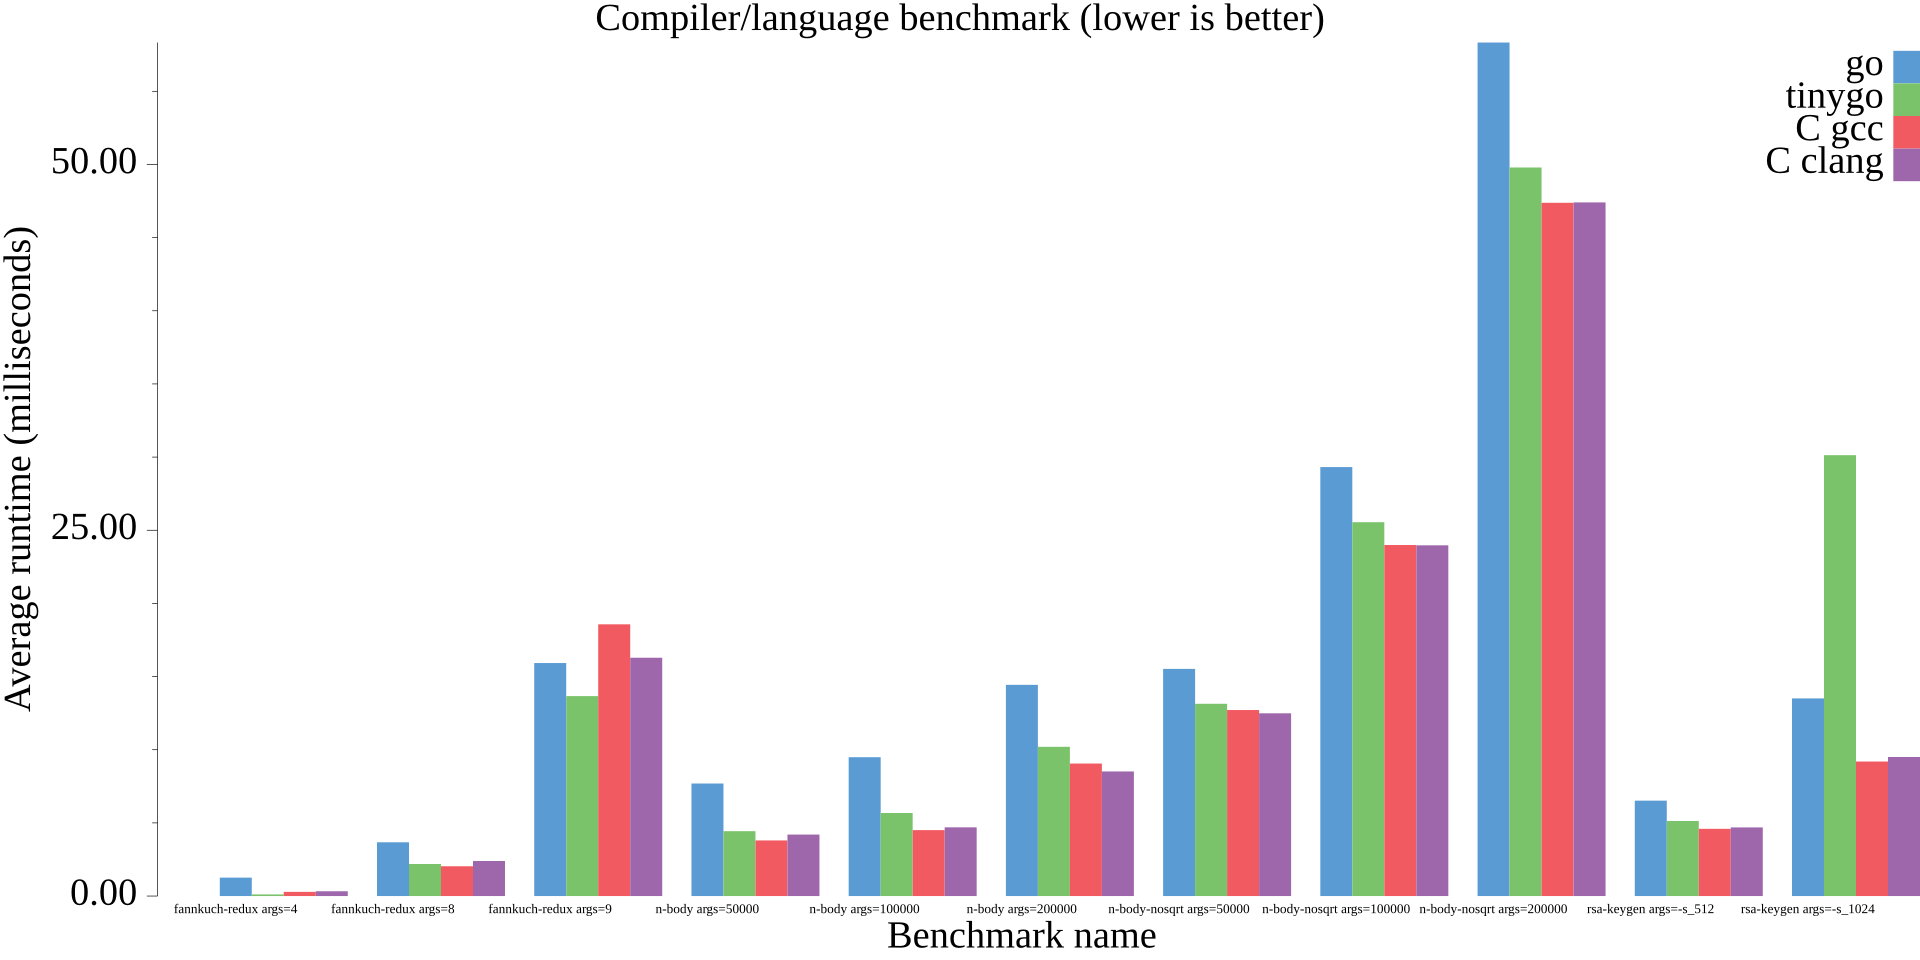
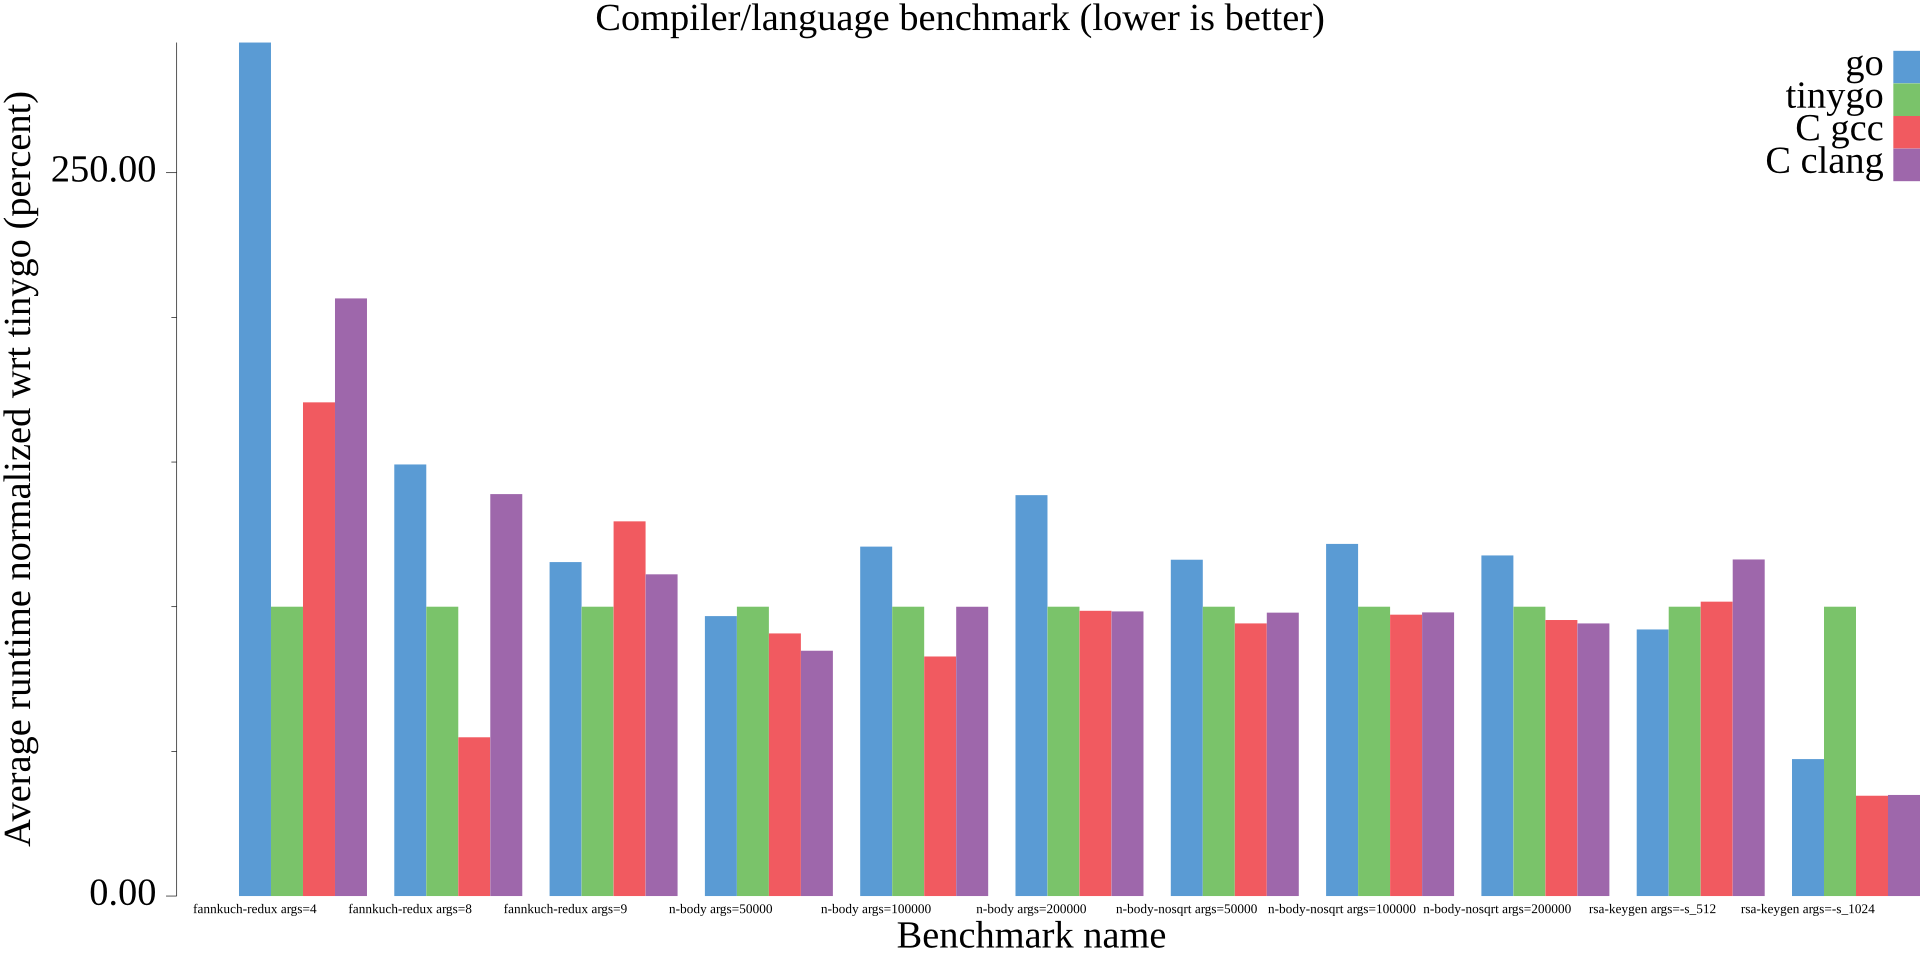
normalize benchmarks against tinygo

Changed region(s): [[0.0312, 0.0312, 1.0, 1.0], [0.0, 0.0938, 0.0938, 0.875]]

diff --git a/plot_/main.go b/plot_/main.go
@@ -8,6 +8,7 @@ import (
 	"io"
 	"log"
 	"os"
+	"slices"
 	"strconv"
 	"strings"
 	"time"
@@ -19,13 +20,33 @@ import (
 )
 
 func main() {
-	var output string
+	var output, baseLang string
 	flag.StringVar(&output, "o", "benchmark.png", "Output file")
+	flag.StringVar(&baseLang, "base", "tinygo", "Language benchmark to normalize other benchmark timings with")
 	flag.Parse()
-	langs, err := parsebench(os.Stdin)
+	langs, err := parsebench(os.Stdin, baseLang)
 	if err != nil {
 		log.Fatal(err)
 	}
+	err = drawBenchmark(langs, output, baseLang)
+	if err != nil {
+		log.Fatal(err)
+	}
+	for i := range langs {
+		for j := range langs[i].Results {
+			if langs[i].Results[j].ID() == "fannkuch-redux args=4" {
+				langs[i].Results = slices.Delete(langs[i].Results, j, j+1)
+				break
+			}
+		}
+	}
+	err = drawBenchmark(langs, "omit_fk4_"+output, baseLang)
+	if err != nil {
+		log.Fatal(err)
+	}
+}
+
+func drawBenchmark(langs []langBench, savefile, baseLang string) error {
 	var (
 		size     = 5 * vg.Inch * vg.Length(len(langs))
 		fontsize = size / 50
@@ -35,7 +56,7 @@ func main() {
 	p := plot.New()
 
 	p.Title.Text = "Compiler/language benchmark (lower is better)"
-	p.Y.Label.Text = "Average runtime (milliseconds)"
+	p.Y.Label.Text = "Average runtime normalized wrt " + baseLang + " (percent)"
 	p.Y.Tick.Label.Font.Size = fontsize
 
 	var plotters []plot.Plotter
@@ -49,7 +70,7 @@ func main() {
 	for i := range langs {
 		bar, err := plotter.NewBarChart(&langs[i], barwidth)
 		if err != nil {
-			panic(err)
+			return err
 		}
 
 		bar.Width = barwidth
@@ -78,9 +99,10 @@ func main() {
 	p.Y.Label.TextStyle.Font.Size = fontsize
 	p.X.Label.TextStyle.Font.Size = fontsize
 	p.X.Label.Text = "Benchmark name"
-	if err := p.Save(size, size/2, output); err != nil {
-		panic(err)
+	if err := p.Save(size, size/2, savefile); err != nil {
+		return err
 	}
+	return nil
 }
 
 type langBench struct {
@@ -88,7 +110,7 @@ type langBench struct {
 	Results  []benchResult
 }
 
-func (lb *langBench) Value(i int) float64 { return lb.Results[i].PerOp.Seconds() * 1000 }
+func (lb *langBench) Value(i int) float64 { return lb.Results[i].PerOpNormalized * 100 }
 func (lb *langBench) Len() int            { return len(lb.Results) }
 
 type benchResult struct {
@@ -96,10 +118,17 @@ type benchResult struct {
 	Args  string
 	N     int
 	PerOp time.Duration
+	// PerOpNormalized is calculated as PerOp/PerOp_baseLang
+	PerOpNormalized float64
 }
 
-func parsebench(r io.Reader) (langs []langBench, err error) {
+func (br benchResult) ID() string {
+	return br.Name + " " + br.Args
+}
+
+func parsebench(r io.Reader, baseLang string) (langs []langBench, err error) {
 	br := bufio.NewReader(r)
+	var base *langBench
 	for {
 		orig, rderr := br.ReadString('\n')
 		if !strings.HasPrefix(orig, "BenchmarkAll") {
@@ -144,6 +173,30 @@ func parsebench(r io.Reader) (langs []langBench, err error) {
 				Langname: langname,
 				Results:  []benchResult{result},
 			})
+		}
+	}
+	for i := range langs {
+		if baseLang == langs[i].Langname {
+			base = &langs[i]
+		}
+	}
+	if base == nil {
+		return langs, fmt.Errorf("language %q not found", baseLang)
+	}
+	for i := range langs {
+		for j := range langs[i].Results {
+			var baseOp float64 = -1
+			id := langs[i].Results[j].ID()
+			for jj := range base.Results {
+				if base.Results[jj].ID() == id {
+					baseOp = base.Results[jj].PerOp.Seconds()
+					break
+				}
+			}
+			if baseOp < 0 {
+				return langs, fmt.Errorf("failed to find %q benchmark among base language's benchmarks: %+v", id, base.Results)
+			}
+			langs[i].Results[j].PerOpNormalized = langs[i].Results[j].PerOp.Seconds() / baseOp
 		}
 	}
 	return langs, nil
